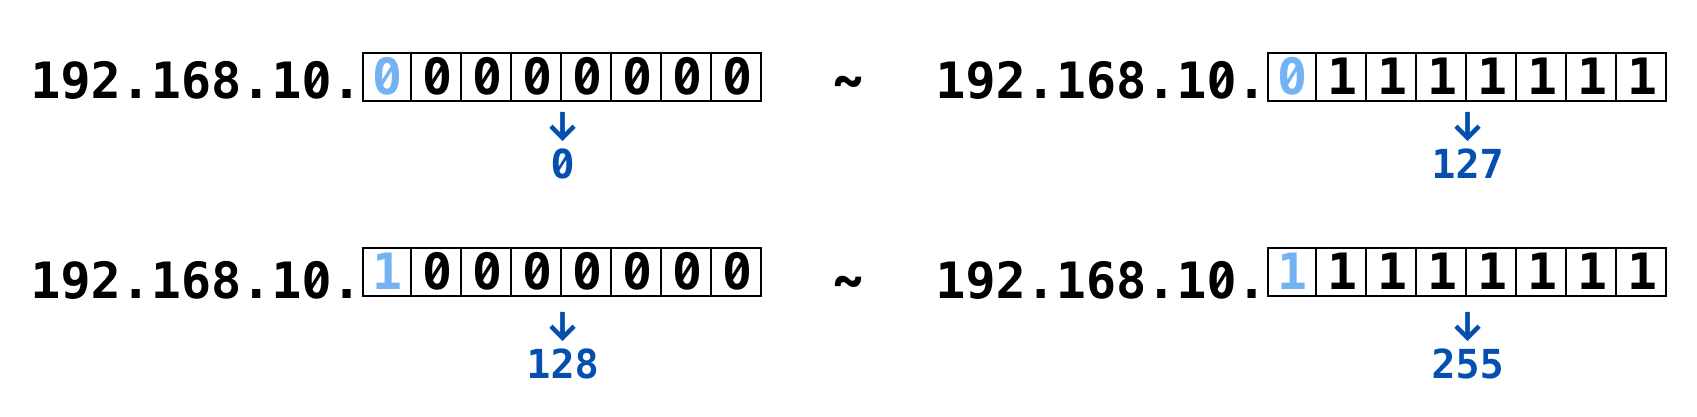
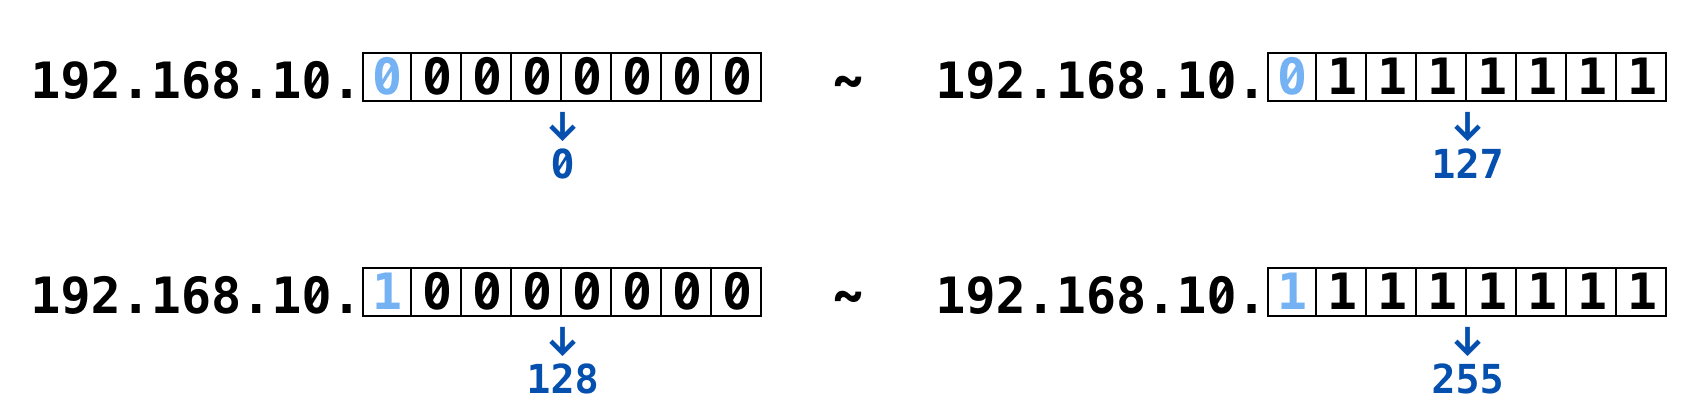
서브넷 게시글 추가

Changed region(s): [[0.0, 0.5923, 0.9994, 0.9664]]

diff --git a/_posts/computer-science/network/2024-08-05-subnet.md b/_posts/computer-science/network/2024-08-05-subnet.md
@@ -76,9 +76,9 @@ image:
 
 여기서 `IP`와 표현이 다른 점은 <ins>서브넷 마스크는 연속된 `1`과 연속된 `0`으로 구성</ins>되어있다는 것이다.
 
-즉, `10011111.11011111.11110011.00000000`와 같이 `1` 중간에 `0`이 들어오는 값은 가질 수 없고,
+즉, `1001 1111.1101 1111.1111 0011.0000 0000`와 같이 `1` 중간에 `0`이 들어오는 값은 가질 수 없고,
 
-`11111111.11111111.11111100.00000000`처럼 `1`이 연속되거나 `0`이 연속되는 형태만을 가질 수 있다.
+`1111 1111.1111 1111.1111 1100.0000 0000`처럼 `1`이 연속되거나 `0`이 연속되는 형태만을 가질 수 있다.
 
 앞서 설명한 것과 같이, 서브넷 마스크는 네트워크 ID와 호스트 ID를 보다 편하게 구분하기 위해 사용된다.
 
@@ -106,7 +106,7 @@ image:
 
 나머지 $32-24=8$은 0으로 채워주면 서브넷 마스크 숫자가 되는 것이다.
 
-<ins class="red">/24</ins> → <ins class="red">11111111.11111111.11111111</ins>.00000000
+<ins class="red">/24</ins> → <ins class="red">1111 1111.1111 1111.1111 1111</ins>.0000 0000
 
 기존의 서브넷을 나타내는 방법인 `255.255.255.0`을 `/24`로, 즉 네트워크에 해당하는 비트의 수로 표시하는 방식을 말한다고 보면 된다.
 
@@ -154,7 +154,7 @@ image:
 
 `/24`라는 뜻은 `1`이 `24`개라는 뜻이며, 24비트까지가 <ins class="blue">네트워크 ID(3옥텟)</ins>, 24번째 부터는 <ins class="red">호스트 ID (1옥텟)</ins>이 된다.
 
-<ins class="blue">11000000.10101000.00001010</ins><ins class="red">.00000000</ins>
+<ins class="blue">1100 0000.1010 1000.0000 1010</ins><ins class="red">.0000 0000</ins>
 
 <ins class="red">호스트 ID</ins>가 8비트이므로, 할당 가능한 호스트의 개수는 $2^8 = 256$개가 된다.
 
@@ -202,7 +202,150 @@ image:
 
 #### 주소 범위를 4등분으로 나누기
 
-⚠ 이어서 작성 예정
+그렇다면, 만약에 100개도 사용하지 않고 50개만 사용한다면?
+
+이 역시도 반으로 쪼개진 128개를 통째로 주기에는 주소 낭비가 심하다.
+
+따라서 위와 같은 2등분으로 나눠진 호스트를 다시 절반으로 쪼개 64개로 만들고 할당해주면 된다.
+
+앞서 설명했듯, `192.168.10.0/24`는 `Class C`로서 사용 가능한 호스트 개수는 256개이다.
+
+이를 4등분해서 64개의 호스트를 가진 서브넷 4개로 나누는 것이다.
+
+![subnet_8][subnet_8]
+
+위와 같이 4등분해서 64개의 호스트를 가진 서브넷 4개로 나누는 것이다.
+
+4등분을 하기 위해서는 서브넷 구분 비트를 <ins>왼쪽에서 2비트</ins>로 지정한다.
+
+그렇면 서브넷 구분 비트는 `00`, `01`, `10`, `11`로 총 4개로 구분되고, 이를 적용한다면,
+
+<ins class="blue">00</ins>00 0000 ~ <ins class="blue">00</ins>11 1111
+
+<ins class="blue">01</ins>00 0000 ~ <ins class="blue">01</ins>11 1111
+
+<ins class="blue">10</ins>00 0000 ~ <ins class="blue">10</ins>11 1111
+
+<ins class="blue">11</ins>00 0000 ~ <ins class="blue">11</ins>11 1111
+
+위와 같이 범위가 4등분되어 나눠줄 수 있다.
+
+![subnet_9][subnet_9]
+
+이 범위를 `IP` 주소로 표현하자면 위의 이미지와 같이 된다.
+
+![subnet_10][subnet_10]
+
+여기서 네트워크 주소와 브로드캐스트 주소의 특징을 볼 수 있는데, 네트워크 주소는 항상 <ins>짝수</ins>로 나온다는 특징과 브로트캐스트 주소는 항상 <ins>홀수</ins>로 나온다는 특징이 있다.
+
+따라서 브로드캐스트 주소를 구했는데 짝수가 나온다면 잘못 계산한 것으로 보면 된다.
+
+![subnet_11][subnet_11]
+
+정리하자면, 50개의 호스트만 사용하는 회사에게는 위와 같이 4등분을 통해 나눠진 서브넷 중 하나를 할당해주면 된다.
+
+#### 주소 범위를 복합적으로 나누기
+
+![subnet_12][subnet_12]
+
+그렇다면, 이번에는 위와 같이 3층짜리 건물이 있고 각 층마다 회사가 들어섰다.
+
+1층은 100개의 주소를, 2층은 50개, 3층은 30개의 주소만을 사용한다고 가정한다.
+
+주소의 범위를 원하는 크기만큼 복합적으로 나눌때는 반드시 <ins>크기가 큰 것부터 나눠야한다.</ins>
+
+즉, 1층의 100개부터 나눠 할당해줘야 한다는 것이다.
+
+![subnet_13][subnet_13]
+
+위의 이미지처럼 1층의 호스트 100대의 `IP` 주소를 할당하기 위해서는 호스트 ID 7비트가 필요하다.
+
+> $2^7 = 128$개이므로 100개를 충분히 할당할 수 있는 수이다.
+
+그러면 위와 같이 <ins class="blue">25비트가 네트워크 ID</ins>, <ins class="red">7비트가 호스트 ID</ins>가 된다.
+
+다음으로 이 호스트 ID의 처음과 끝을 구하게 되면, 호스트 ID의 `IP` 주소의 범위는 .0<ins class="red">000 0000</ins> ~ .0<ins class="red">111 1111</ins>(0 ~ 127)이 된다.
+
+![subnet_14][subnet_14]
+
+10진수로 표현하면 `192.168.10.0` ~ `192.168.10.127`이 되고, 이 `IP` 범위 서브넷을 1층에 할당해주면 된다.
+
+![subnet_15][subnet_15]
+
+2층의 경우 50대의 호스트를 할당하기 위해서는 호스트 ID 6비트만 있으면 된다.
+
+> $2^6 = 64$개이므로 50개를 할당하기에 충분한 수이다.
+
+{: .prompt-info}
+
+> 단, 여기서 유의할 점은 이 `64`개는 처음에 1층에 할당하고 남은 나머지 `128`개의 호스트 주소 범위를 쪼개 나눠서 할당해야 한다.
+
+<ins>192.168.10.0 ~ 192.168.10.127</ins>
+
+<ins>192.168.10.128 ~ 192.168.10.256</ins>
+
+위의 1층에서는 호스트를 할당하기 위해 위와 같이 `256`개를 절반으로 나누었지만,
+
+그 중에서 <ins>192.168.10.0 ~ 192.168.10.127</ins> 범위는 이미 1층에 할당했으니, 나머지 <ins>192.168.10.128 ~ 192.168.10.256</ins> 범위를 쪼개어 나누면 된다는 뜻이다.
+
+![subnet_16][subnet_16]
+
+호스트 ID 비트는 6개이므로, 이를 2진수로 표현해서 처음과 끝을 표현하면, .10<ins class="red">00 0000</ins> ~ .10<ins class="red">11 1111</ins>(128 ~ 191)이 되고, 이 범위(`64`개)를 2층에 할당해주면 된다.
+
+지금까지 나눠진 `IP` 주소 범위를 이미지로 표현하자면 아래와 같다.
+
+![subnet_18][subnet_18]
+
+위와 같이 원래 `IP` 주소 `192.168.10.0` ~ `192.168.10.255`에서
+
+<ins>192.168.10.0 ~ 192.168.10.127</ins> 주소 범위는 1층에 할당했고, <ins>192.168.10.128 ~ 192.168.10.191</ins> 주소 범위는 2층에 할당했다.
+
+이제 나머지 `192.168.10.192` ~ `192.168.10.255`에서 3층에 같은 방식으로 나머지 범위에서 반으로 쪼개어(`32`개) 할당해주면 된다.
+
+![subnet_17][subnet_17]
+
+3층은 30개만 사용할 예정이기 때문에 $2^5 = 32$개만 필요하다.
+
+이는 호스트 ID 5비트가 필요하며, 이를 범위로 표현하면 .110<ins class="red">0 0000</ins> ~ .110<ins class="red">1 1111</ins>(128 ~ 191)가 된다.
+
+즉, `192.168.10.192` ~ `192.168.10.223` 범위의 서브넷을 할당해주면 된다.
+
+위와 같이 복합적으로 쪼개어 나눠진 서브넷은 아래의 이미지로 정리할 수 있다.
+
+![subnet_19][subnet_19]
+
+## 슈퍼네팅(Supernetting)이란?
+
+서브넷팅이 네트워크를 분할하는 것이었다면, 슈퍼네팅은 <ins>반대의 개념</ins>이다.
+
+다시 말해서, <ins>네트워크를 합치는 것</ins>을 슈퍼네팅(`Supernetting`)이라고 한다.
+
+예를 들어 `192.168.10.0/24`를 사용하면 `192.168.10.0` ~ `192.168.10.255` 범위에서 `254`(내트워크, 브로드캐스트 주소 제외)개의 호스트를 가질 수 있게 된다.
+
+그런데, 만일 이 네트워크에 몇 명이 추가로 들어와서 `500`개 분의 더 많은 호스트를 필요하게 된다면 어떻게 할 것인가?
+
+`Class C`의 모든 대역폭으로는 수가 부족하니까 `Class B` 대역폭을 통째로 줘야 하는가?
+
+여기서 슈퍼네팅을 활용할 수 있는데, 바로 <ins>`Class C` 2개를 합쳐서 하나의 네트워크로 구성</ins>하여 사용할 수 있다.
+
+방법은 아즈 간단한데, 서브넷 마스크를 이동시키면 된다.
+
+`192.168.10.0/24`에서 `192.168.10.0/23`으로 Prefix 숫자를 감소시킨다.
+
+Prefix 숫자가 감소한다는 것은 곧 호스트 ID 개수가 늘어난다는 뜻과 같다.
+
+자세하게 설명을 해보자면 아래와 같다.
+
+`192.168.10.0/23` 주소를 서브넷 마스크와 2진수로 표현해보면 다음과 같다.
+
+- `IP`
+  : `1100 0000.1010 1000.0000 1010.0000 0000`, (`192.168.10.0`)
+- 서브넷 마스크
+  : `1111 1111.1111 1111.1111 1110.0000 0000`, (`255.255.254.0`)
+
+즉, 서브넷 마스크의 1의 개수가 23개가 되니, 호스트 ID의 비트 수는 9개가 되고, $2^9 = 512$개가 되기 떄문에 `192.168.10.0` ~ `192.168.11.255`의 범위를 가지게 된다.
+
+결과적으로 `Class C` 두 개를 합쳐 $256 \times 2 = 512 - 2 = 510$(여기서 `2`는 특수 목적 `IP)개의 호스트를 가질 수 있는 네트워크가 완성된다.
 
 ## 참고 사이트
 
@@ -223,6 +366,18 @@ image:
 [subnet_5]: {{page.image-path}}/subnet_5.png
 [subnet_6]: {{page.image-path}}/subnet_6.png
 [subnet_7]: {{page.image-path}}/subnet_7.png
+[subnet_8]: {{page.image-path}}/subnet_8.png
+[subnet_9]: {{page.image-path}}/subnet_9.png
+[subnet_10]: {{page.image-path}}/subnet_10.png
+[subnet_11]: {{page.image-path}}/subnet_11.png
+[subnet_12]: {{page.image-path}}/subnet_12.png
+[subnet_13]: {{page.image-path}}/subnet_13.png
+[subnet_14]: {{page.image-path}}/subnet_14.png
+[subnet_15]: {{page.image-path}}/subnet_15.png
+[subnet_16]: {{page.image-path}}/subnet_16.png
+[subnet_17]: {{page.image-path}}/subnet_17.png
+[subnet_18]: {{page.image-path}}/subnet_18.png
+[subnet_19]: {{page.image-path}}/subnet_19.png
 
 <!-- 블로그 게시글 -->
 

diff --git a/_posts/computer-science/network/2024-08-05-ip-class.md b/_posts/computer-science/network/2024-08-05-ip-class.md
@@ -23,7 +23,7 @@ image:
 
 아이피(`IP`)는 일반적으로 `192.168.123.132`와 같이 마침표로 구분된 4개의 숫자가 있는, 점으로 분리된 10진수 형식으로 표시된다.
 
-이를 2진법으로 표현한다면, 32비트 숫자 `1000000.10101000.01111011.10000100`가 된다.
+이를 2진법으로 표현한다면, 32비트 숫자 `1100 0000.1010 1000.0111 1011.1000 0100`가 된다.
 
 ![image_2][image_2]
 
@@ -41,11 +41,11 @@ image:
 
 따라서 우리가 인터넷을 사용할 때 목적지를 알아내고 찾아가기 위해서는 <ins>Network ID와 Host ID가 합쳐진 `IP` 주소를 보게 된다.</ins>
 
-<ins class="blue">192.168.10.</ins><ins class="red">10</ins> → <ins class="blue">11000000.10101000.00001010.</ins><ins class="red">00001010</ins>
+<ins class="blue">192.168.10.</ins><ins class="red">10</ins> → <ins class="blue">1100 0000.1010 1000.0000 1010.</ins><ins class="red">0000 1010</ins>
 
 예를 들어, 위와 같은 주소가 있다고 하면,
 
-<ins class="blue">네트워크 주소</ins>는 <ins class="blue">11000000.10101000.00000010</ins>이 되고, 나머지 부분인 <ins class="red">00001010</ins>은 <ins class="red">호스트 주소</ins>가 된다.
+<ins class="blue">네트워크 주소</ins>는 <ins class="blue">1100 0000.1010 1000.0000 0010</ins>이 되고, 나머지 부분인 <ins class="red">0000 1010</ins>은 <ins class="red">호스트 주소</ins>가 된다.
 
 그리고 <ins class="blue">192.168.10.</ins>으로 시작하는 PC는 <ins class="blue">192.168.10.</ins><ins class="red">10</ins>, <ins class="blue">192.168.10.</ins><ins class="red">25</ins>, <ins class="blue">192.168.10.</ins><ins class="red">126</ins>...과 같은 네트워크에 속하고 있다고 말할 수 있다.
 

diff --git a/_posts/computer-science/network/2024-08-02-ip.md b/_posts/computer-science/network/2024-08-02-ip.md
@@ -39,7 +39,7 @@ image:
 
 아이피(`IP`)는 일반적으로 위와 같이 `172.16.254.1`과 같은 마침표로 구분된 4개의 숫자가 있는, 점으로 분리된 10진수 형식으로 표시된다.
 
-이를 2진법으로 표현한다면, 32비트 숫자 `10101100.00010000.11111110.00000001`가 된다.
+이를 2진법으로 표현한다면, 32비트 숫자 `1010 1100.0001 0000.1111 1110.0000 0001`가 된다.
 
 즉, 아이피는 <ins>32bit로 이루어진 주소</ins>이며, 이를 합산해보면 약 <ins>43억개</ins>의 주소를 가지게 된다.
 
